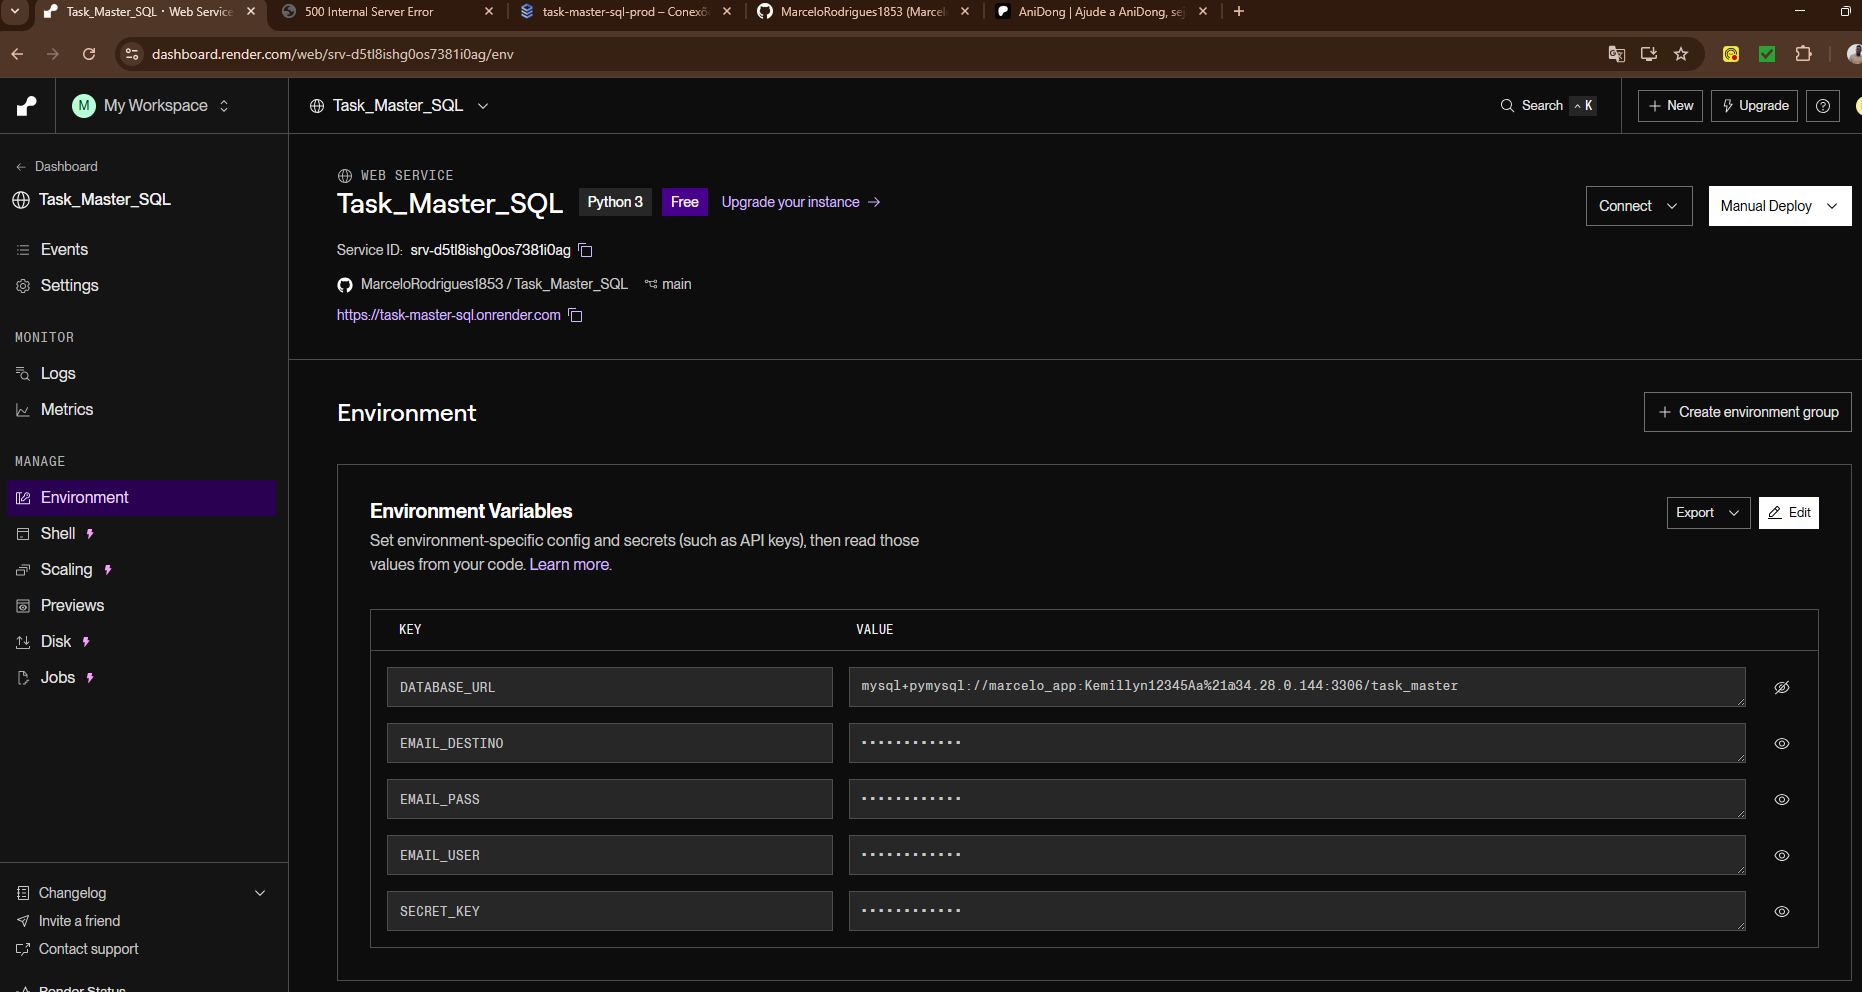
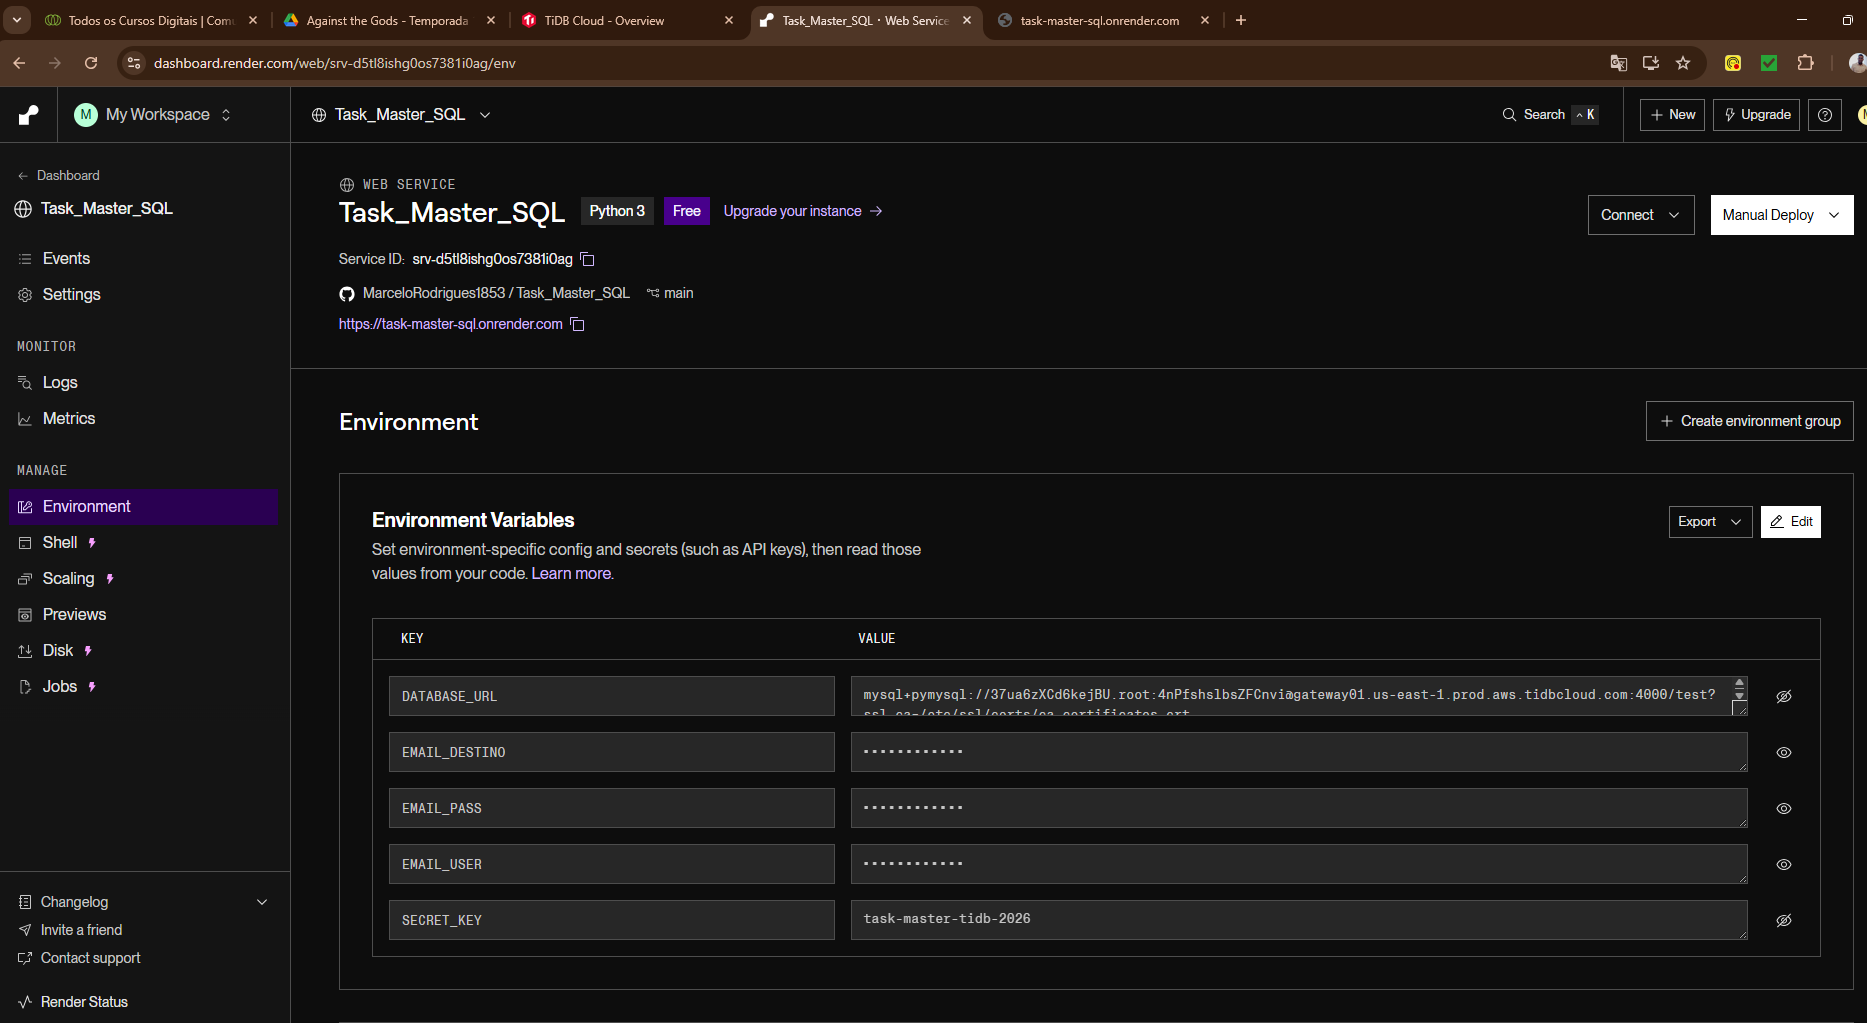
Teste sincronia local + render

diff --git a/app.py b/app.py
@@ -1,230 +1,104 @@
 import os
-import pymysql
+from flask import Flask, render_template, request, redirect, url_for, session
 from dotenv import load_dotenv
-from flask import (
-    Flask, render_template, request,
-    redirect, url_for, session, flash, jsonify
-)
-from werkzeug.security import generate_password_hash, check_password_hash
 
-# =========================
-# Configurações iniciais
-# =========================
 load_dotenv()
 
 app = Flask(__name__)
-app.secret_key = os.getenv("SECRET_KEY", "chave-padrao")
+app.secret_key = os.getenv("SECRET_KEY", "dev_key")
 
 # =========================
-# Conexão com o TiDB Cloud
+# DADOS MOCK (temporários)
 # =========================
-def get_db_connection():
-    return pymysql.connect(
-        host=os.getenv("DB_HOST"),
-        port=int(os.getenv("DB_PORT")),
-        user=os.getenv("DB_USER"),
-        password=os.getenv("DB_PASSWORD"),
-        database=os.getenv("DB_NAME"),
-        ssl={"ca": os.getenv("DB_SSL_CA")},
-        cursorclass=pymysql.cursors.DictCursor,
-        autocommit=True
-    )
+tarefas_mock = []
+contador_id = 1
 
 # =========================
-# Inicialização do banco
-# =========================
-def init_db():
-    conn = get_db_connection()
-    with conn.cursor() as cursor:
-        cursor.execute("""
-            CREATE TABLE IF NOT EXISTS usuarios (
-                id INT AUTO_INCREMENT PRIMARY KEY,
-                nome_usuario VARCHAR(80) UNIQUE NOT NULL,
-                senha_hash VARCHAR(200) NOT NULL
-            )
-        """)
-        cursor.execute("""
-            CREATE TABLE IF NOT EXISTS tarefas (
-                id INT AUTO_INCREMENT PRIMARY KEY,
-                texto VARCHAR(200) NOT NULL,
-                feito BOOLEAN DEFAULT FALSE,
-                prioridade INT DEFAULT 2,
-                usuario_id INT,
-                FOREIGN KEY (usuario_id) REFERENCES usuarios(id)
-            )
-        """)
-    conn.close()
-
-init_db()
-
-# =========================
-# ROTAS WEB
+# ROTAS PRINCIPAIS
 # =========================
 @app.route("/")
 def index():
-    if "user_id" not in session:
+    if "user" not in session:
         return redirect(url_for("login"))
 
-    conn = get_db_connection()
-    with conn.cursor() as cursor:
-        cursor.execute(
-            "SELECT * FROM tarefas WHERE usuario_id=%s ORDER BY prioridade DESC",
-            (session["user_id"],)
-        )
-        tarefas = cursor.fetchall()
-    conn.close()
-
-    total = len(tarefas)
-    concluidas = len([t for t in tarefas if t["feito"]])
-    progresso = int((concluidas / total) * 100) if total else 0
+    total = len(tarefas_mock)
+    concluidas = len([t for t in tarefas_mock if t["feito"]])
+    progresso = int((concluidas / total) * 100) if total > 0 else 0
 
     return render_template(
         "index.html",
-        tarefas=tarefas,
-        progresso=progresso,
         tela="app",
-        nome=session.get("user_nome")
+        nome=session["user"],
+        tarefas=tarefas_mock,
+        progresso=progresso,
+        tarefa_edit=None
     )
 
 # =========================
-# TAREFAS
+# CRUD DE TAREFAS (SIMULADO)
 # =========================
 @app.route("/adicionar", methods=["POST"])
 def adicionar():
-    if "user_id" not in session:
-        return redirect(url_for("login"))
-
-    texto = request.form.get("texto_tarefa")
-    prioridade = int(request.form.get("prioridade", 2))
-
-    conn = get_db_connection()
-    with conn.cursor() as cursor:
-        cursor.execute(
-            "INSERT INTO tarefas (texto, prioridade, usuario_id) VALUES (%s, %s, %s)",
-            (texto, prioridade, session["user_id"])
-        )
-    conn.close()
+    global contador_id
+    tarefas_mock.append({
+        "id": contador_id,
+        "texto": request.form.get("texto_tarefa"),
+        "prioridade": int(request.form.get("prioridade")),
+        "feito": False
+    })
+    contador_id += 1
     return redirect(url_for("index"))
 
 @app.route("/editar/<int:id>", methods=["GET", "POST"])
 def editar(id):
-    if "user_id" not in session:
-        return redirect(url_for("login"))
+    tarefa = next((t for t in tarefas_mock if t["id"] == id), None)
 
-    conn = get_db_connection()
-    with conn.cursor() as cursor:
-        if request.method == "POST":
-            cursor.execute(
-                "UPDATE tarefas SET texto=%s, prioridade=%s WHERE id=%s AND usuario_id=%s",
-                (
-                    request.form.get("texto_tarefa"),
-                    int(request.form.get("prioridade")),
-                    id,
-                    session["user_id"]
-                )
-            )
-            conn.close()
-            return redirect(url_for("index"))
+    if request.method == "POST":
+        tarefa["texto"] = request.form.get("texto_tarefa")
+        tarefa["prioridade"] = int(request.form.get("prioridade"))
+        return redirect(url_for("index"))
 
-        cursor.execute(
-            "SELECT * FROM tarefas WHERE id=%s AND usuario_id=%s",
-            (id, session["user_id"])
-        )
-        tarefa_edit = cursor.fetchone()
-
-        cursor.execute(
-            "SELECT * FROM tarefas WHERE usuario_id=%s ORDER BY prioridade DESC",
-            (session["user_id"],)
-        )
-        tarefas = cursor.fetchall()
-
-    conn.close()
+    total = len(tarefas_mock)
+    concluidas = len([t for t in tarefas_mock if t["feito"]])
+    progresso = int((concluidas / total) * 100) if total > 0 else 0
 
     return render_template(
         "index.html",
-        tarefas=tarefas,
-        tarefa_edit=tarefa_edit,
         tela="app",
-        nome=session.get("user_nome"),
-        progresso=0
+        nome=session["user"],
+        tarefas=tarefas_mock,
+        progresso=progresso,
+        tarefa_edit=tarefa
     )
-
-@app.route("/completar/<int:id>")
-def completar(id):
-    if "user_id" not in session:
-        return redirect(url_for("login"))
-
-    conn = get_db_connection()
-    with conn.cursor() as cursor:
-        cursor.execute(
-            "UPDATE tarefas SET feito = NOT feito WHERE id=%s AND usuario_id=%s",
-            (id, session["user_id"])
-        )
-    conn.close()
-    return redirect(url_for("index"))
 
 @app.route("/deletar/<int:id>")
 def deletar(id):
-    if "user_id" not in session:
-        return redirect(url_for("login"))
+    global tarefas_mock
+    tarefas_mock = [t for t in tarefas_mock if t["id"] != id]
+    return redirect(url_for("index"))
 
-    conn = get_db_connection()
-    with conn.cursor() as cursor:
-        cursor.execute(
-            "DELETE FROM tarefas WHERE id=%s AND usuario_id=%s",
-            (id, session["user_id"])
-        )
-    conn.close()
+@app.route("/completar/<int:id>")
+def completar(id):
+    tarefa = next((t for t in tarefas_mock if t["id"] == id), None)
+    if tarefa:
+        tarefa["feito"] = not tarefa["feito"]
     return redirect(url_for("index"))
 
 # =========================
-# LOGIN / CADASTRO
+# LOGIN / CADASTRO (SIMPLES)
 # =========================
 @app.route("/login", methods=["GET", "POST"])
 def login():
     if request.method == "POST":
-        usuario = request.form.get("usuario")
-        senha = request.form.get("senha")
-
-        conn = get_db_connection()
-        with conn.cursor() as cursor:
-            cursor.execute(
-                "SELECT * FROM usuarios WHERE nome_usuario=%s",
-                (usuario,)
-            )
-            user = cursor.fetchone()
-        conn.close()
-
-        if user and check_password_hash(user["senha_hash"], senha):
-            session["user_id"] = user["id"]
-            session["user_nome"] = user["nome_usuario"]
-            return redirect(url_for("index"))
-
-        flash("Usuário ou senha inválidos")
-
+        session["user"] = request.form.get("usuario")
+        return redirect(url_for("index"))
     return render_template("index.html", tela="login")
 
 @app.route("/cadastro", methods=["GET", "POST"])
 def cadastro():
     if request.method == "POST":
-        usuario = request.form.get("usuario")
-        senha = generate_password_hash(request.form.get("senha"))
-
-        conn = get_db_connection()
-        try:
-            with conn.cursor() as cursor:
-                cursor.execute(
-                    "INSERT INTO usuarios (nome_usuario, senha_hash) VALUES (%s, %s)",
-                    (usuario, senha)
-                )
-        except Exception:
-            flash("Usuário já existe")
-            conn.close()
-            return redirect(url_for("cadastro"))
-
-        conn.close()
-        return redirect(url_for("login"))
-
+        session["user"] = request.form.get("usuario")
+        return redirect(url_for("index"))
     return render_template("index.html", tela="cadastro")
 
 @app.route("/logout")
@@ -233,22 +107,7 @@ def logout():
     return redirect(url_for("login"))
 
 # =========================
-# ROTA TÉCNICA (API)
-# =========================
-@app.route("/db-test")
-def db_test():
-    try:
-        conn = get_db_connection()
-        with conn.cursor() as cursor:
-            cursor.execute("SELECT DATABASE() AS db, VERSION() AS version")
-            r = cursor.fetchone()
-        conn.close()
-        return jsonify({"conectado": True, **r})
-    except Exception as e:
-        return jsonify({"erro": str(e)}), 500
-
-# =========================
-# RUN
+# START
 # =========================
 if __name__ == "__main__":
     port = int(os.environ.get("PORT", 10000))
